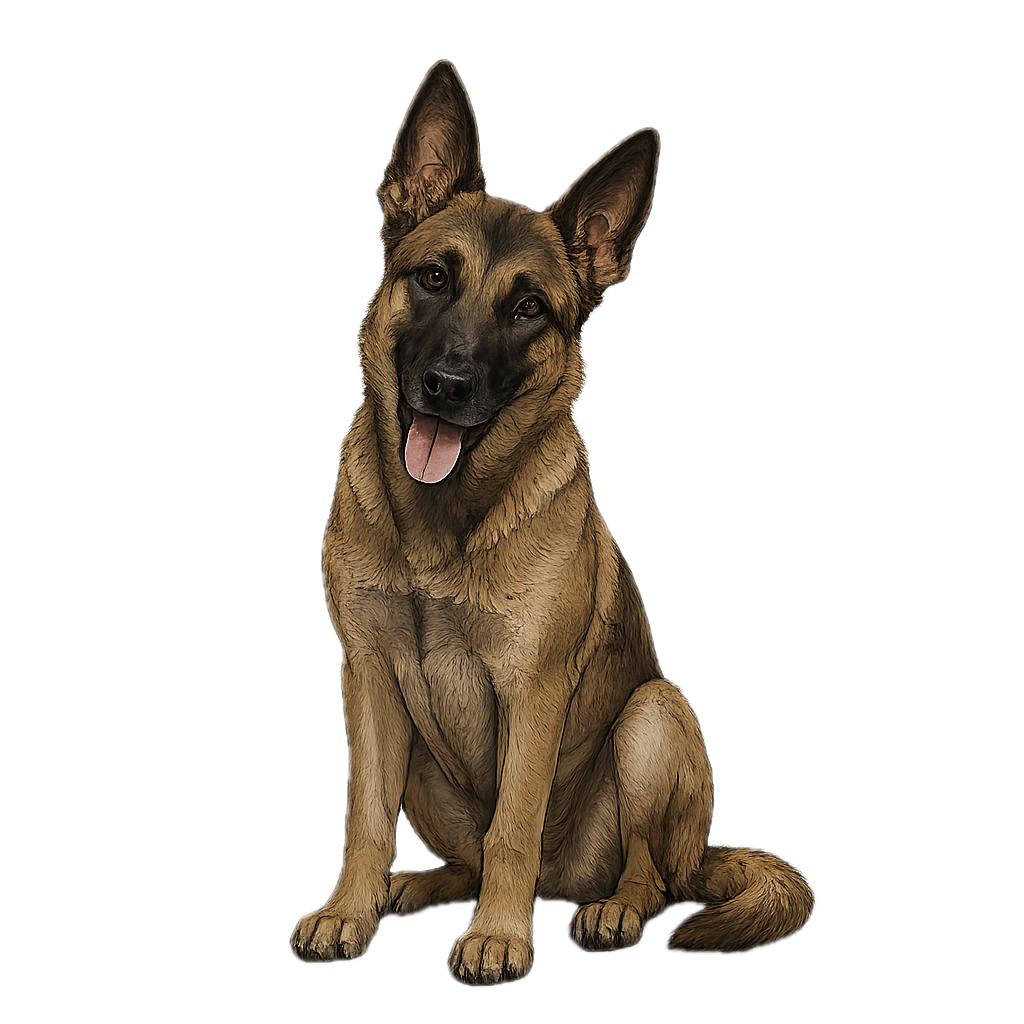
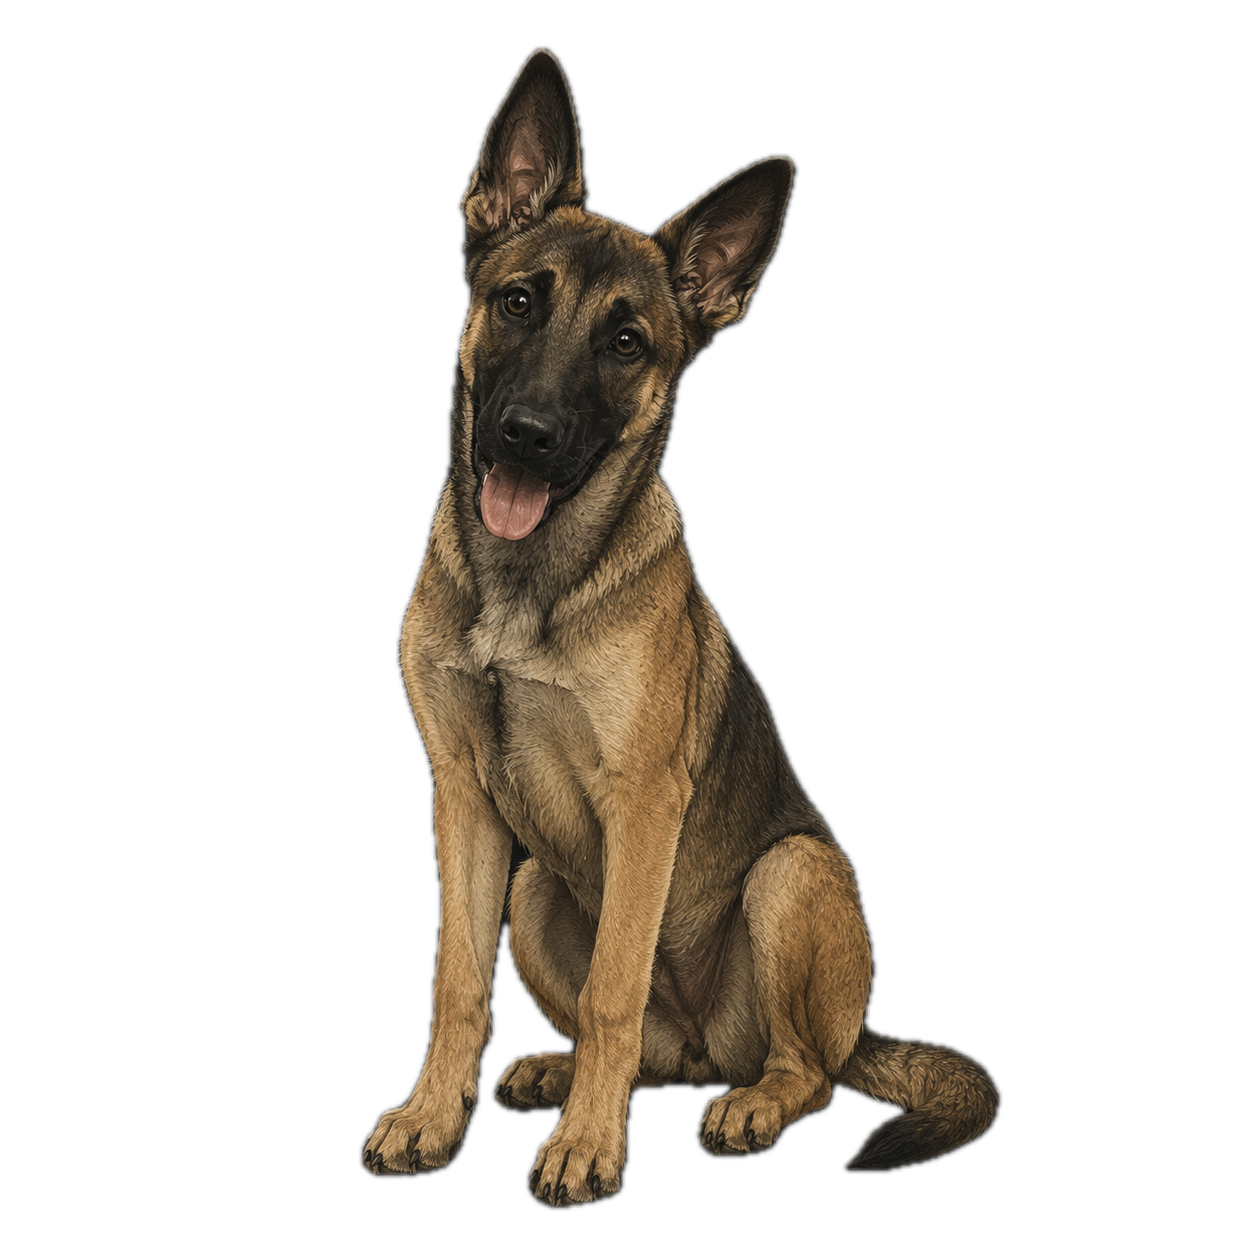
Rename business to Connor's Lead; swap in new Pickles illustration
Rename touches every mention: app.json (name/slug/scheme), package.json,
business.ts copy (intro, FAQ, placeholder contact details), the two
"trainer" sentences on Home/Contact, README, SETUP.md, and the Supabase
schema/edge function. BrandMark now renders "Connor's Lead" as a plain
wordmark (already text-only, no icon, from the last design pass).

Swapped the Home mascot + portfolio avatar for the new Pickles artwork
(same file path, so no code changes needed there) — verified genuinely
transparent before using it.

Also fixed a real bug this surfaced: the splash screen rendered the
wordmark in the system fallback serif for one frame before the custom
font finished loading, harmless with "Heel" but obvious with the longer
name. Splash now waits for fonts before showing any text.

Changed region(s): [[0.2812, 0.0312, 0.8125, 0.9688]]

diff --git a/src/constants/business.ts b/src/constants/business.ts
@@ -1,5 +1,5 @@
 /**
- * Single source of truth for Heel's shopfront copy, pricing, and portfolio
+ * Single source of truth for the shopfront copy, pricing, and portfolio
  * content. Edit this file to update what the app says — no component code
  * needs to change for a copy or price tweak.
  *
@@ -7,17 +7,17 @@
  */
 
 export const business = {
-  name: 'Heel',
+  name: "Connor's Lead",
   tagline: 'Every walk is a training session.',
   trainerName: 'Connor',
   intro:
-    "Most dog walkers just walk your dog. Heel walks are training sessions in disguise — loose-lead walking, sitting at kerbs, no pulling toward other dogs, no barking at cars. You get a tired, happier dog and real, lasting manners, one walk at a time.",
+    "Most dog walkers just walk your dog. Every walk with Connor's Lead is a training session in disguise — loose-lead walking, sitting at kerbs, no pulling toward other dogs, no barking at cars. You get a tired, happier dog and real, lasting manners, one walk at a time.",
   serviceArea: 'Serving the local area and surrounding villages — get in touch to check your postcode.',
   contact: {
     // TODO: replace with Connor's real contact details before launch.
-    email: 'hello@heeldogtraining.co.uk',
+    email: 'hello@connorslead.co.uk',
     phone: '07000 000000',
-    instagram: '@heel.dogtraining',
+    instagram: '@connorslead',
   },
 };
 
@@ -95,7 +95,7 @@ export const faqs: FaqItem[] = [
   {
     question: 'My dog pulls like a steam train — can you actually fix that?',
     answer:
-      "Almost always, yes. Loose-lead walking is trained through the walk itself, not a one-off lesson — that's the whole idea behind Heel. Book a taster and Connor will give you an honest read on timelines for your dog specifically.",
+      "Almost always, yes. Loose-lead walking is trained through the walk itself, not a one-off lesson — that's the whole idea behind Connor's Lead. Book a taster and Connor will give you an honest read on timelines for your dog specifically.",
   },
   {
     question: 'Do you walk multiple dogs at once?',

diff --git a/src/components/splash-overlay.tsx b/src/components/splash-overlay.tsx
@@ -23,7 +23,9 @@ export function SplashOverlay({ ready }: { ready: boolean }) {
   return (
     <Animated.View exiting={FadeOut.duration(400)} style={styles.overlay}>
       <View style={styles.pulse}>
-        <BrandMark size={88} />
+        {/* Wait for the custom font before rendering the wordmark — otherwise
+            it briefly flashes in the system fallback serif. */}
+        {ready && <BrandMark size={56} />}
       </View>
     </Animated.View>
   );
@@ -40,5 +42,6 @@ const styles = StyleSheet.create({
   pulse: {
     alignItems: 'center',
     justifyContent: 'center',
+    maxWidth: '80%',
   },
 });

diff --git a/src/app/contact.tsx b/src/app/contact.tsx
@@ -54,7 +54,7 @@ export default function ContactScreen() {
           About {business.trainerName}
         </ThemedText>
         <ThemedText themeColor="textSecondary">
-          {business.trainerName} trains every dog on a Heel walk personally, using the same methods
+          {business.trainerName} trains every dog personally, using the same methods
           he used to raise Bean and Pickles — from a food-motivated chihuahua to a high-drive
           working-line cross — to a genuinely high standard by 9 months old.
         </ThemedText>

diff --git a/src/app/index.tsx b/src/app/index.tsx
@@ -91,7 +91,7 @@ export default function HomeScreen() {
           Meet your trainer
         </ThemedText>
         <ThemedText themeColor="textSecondary">
-          {business.trainerName} trains every dog on Heel walks personally — {business.serviceArea}
+          {business.trainerName} trains every dog personally, on every walk — {business.serviceArea}
         </ThemedText>
         <Button label="Get in touch" variant="secondary" onPress={() => router.push('/contact')} />
       </Card>

diff --git a/src/constants/theme.ts b/src/constants/theme.ts
@@ -1,5 +1,5 @@
 /**
- * Heel's palette: warm leather, saddle brown, walnut, espresso, charcoal —
+ * The palette: warm leather, saddle brown, walnut, espresso, charcoal —
  * Pickles' natural coat, not a purple app-identity. Premium, quiet,
  * masculine, understated; contrast comes from warm tonal separation, not
  * white. Not a light/dark toggle — see app.json's userInterfaceStyle: "dark".

diff --git a/src/components/brand-mark.tsx b/src/components/brand-mark.tsx
@@ -6,8 +6,10 @@ type BrandMarkProps = {
 
 export function BrandMark({ size = 32 }: BrandMarkProps) {
   return (
-    <ThemedText type="display" style={{ fontSize: size, lineHeight: size * 1.15 }}>
-      Heel
+    <ThemedText
+      type="display"
+      style={{ fontSize: size, lineHeight: size * 1.15, textAlign: 'center' }}>
+      Connor&apos;s Lead
     </ThemedText>
   );
 }

diff --git a/supabase/functions/create-checkout-session/index.ts b/supabase/functions/create-checkout-session/index.ts
@@ -37,7 +37,7 @@ Deno.serve(async (req) => {
         {
           price_data: {
             currency: 'gbp',
-            product_data: { name: 'Heel booking deposit' },
+            product_data: { name: "Connor's Lead booking deposit" },
             unit_amount: amount,
           },
           quantity: 1,

diff --git a/SETUP.md b/SETUP.md
@@ -1,4 +1,4 @@
-# Heel — going from placeholder to live
+# Connor's Lead — going from placeholder to live
 
 This app runs and looks finished right now with no setup — the calendar,
 booking form, and enquiry form all work using placeholder data. This doc
@@ -71,4 +71,4 @@ happy to help wire that up when you're ready.
 - `npx expo prebuild` + EAS build once the above is done, same as the
   Hassle pipeline.
 - App icon / splash currently uses the default Expo placeholders in
-  `assets/images/` — swap those for a Heel icon whenever one exists.
+  `assets/images/` — swap those for a Connor's Lead icon whenever one exists.

diff --git a/README.md b/README.md
@@ -1,11 +1,11 @@
-# Heel
+# Connor's Lead
 
 Dog walking that's actually training. Every walk is a session — loose-lead
 walking, sit at kerbs, no pulling to other dogs, stopping for cars, no
 barking. Bean and Pickles are the proof.
 
-Built with Expo (SDK 57) + expo-router + Supabase, matching the Sends
-family's design language: near-black + lavender, calm and unhurried.
+Built with Expo (SDK 57) + expo-router + Supabase. Warm leather and walnut
+tones pulled from Pickles' own coat, calm and unhurried.
 
 ## Get started
 
